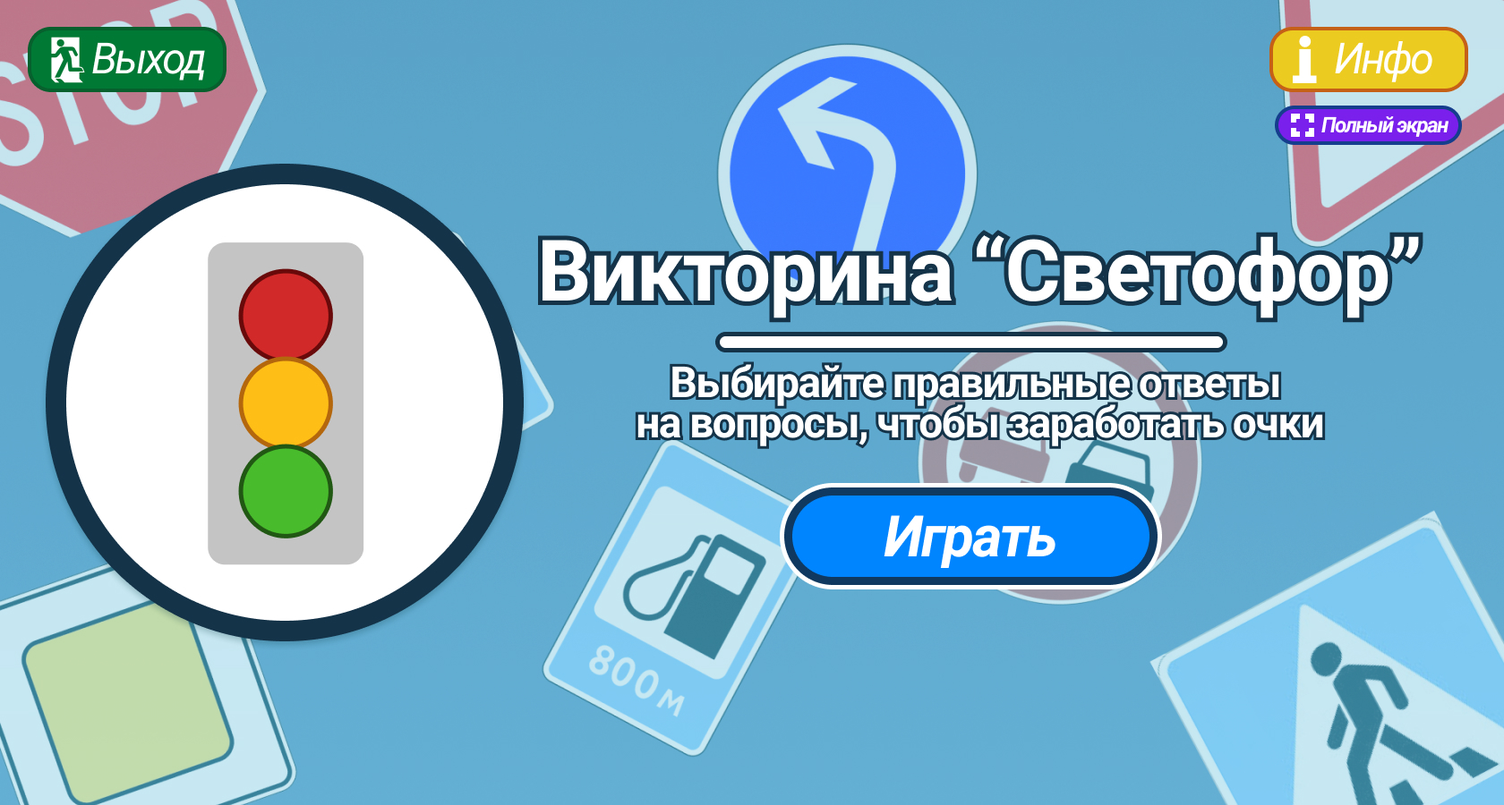
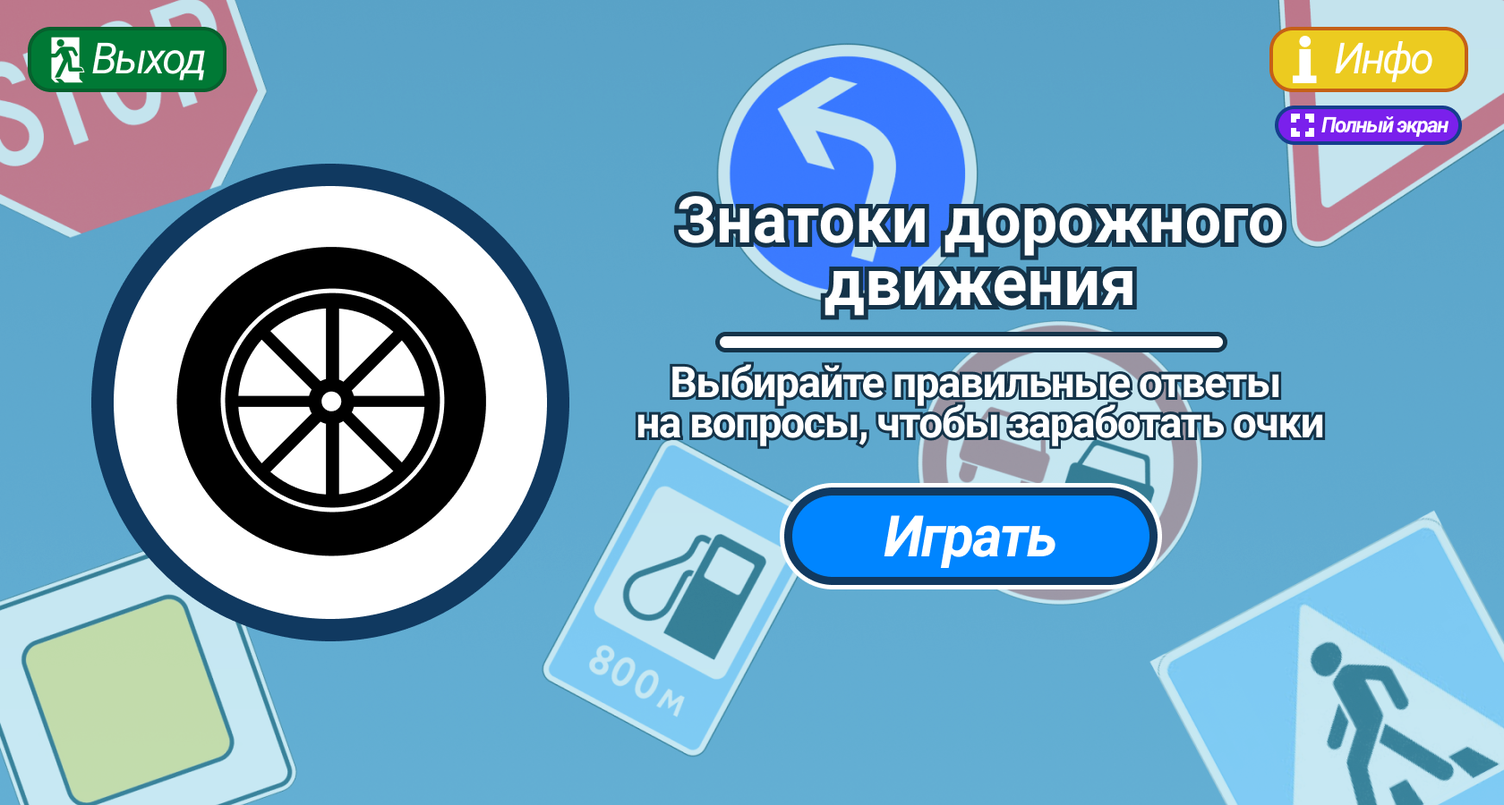
Add files via upload

Changed region(s): [[0.031, 0.1867, 0.9595, 0.8089]]

diff --git a/data.js b/data.js
@@ -1,1 +1,1 @@
-{"project": [null,"Load",[[0,true,false,false,false,false,false,false,false,false],[1,true,false,false,false,false,false,false,false,false],[2,false,true,true,true,true,true,true,true,false],[3,false,true,true,true,true,true,true,true,true],[4,false,true,true,true,true,true,true,true,true],[5,true,false,false,false,false,false,false,false,false]],[["t0",2,false,[],0,0,null,[["Default",5,false,1,0,false,699310669772612,[["images/info-sheet0.png",101,0,0,250,250,1,0.5,0.5,[],[],1]]]],[],false,false,305286260090598,[],null],["t1",2,false,[],0,0,null,[["Default",5,false,1,0,false,646212882188974,[["images/menu-sheet0.png",600767,0,0,1680,900,1,0.5,0.5,[],[],1]]]],[],false,false,330965108806769,[],null],["t2",2,false,[],0,0,null,[["Default",5,false,1,0,false,140457122207966,[["images/play-sheet0.png",101,0,0,250,250,1,0.5,0.5,[],[],1]]]],[],false,false,638169969096723,[],null],["t3",2,false,[],0,0,null,[["Default",5,false,1,0,false,619298212379543,[["images/construct-sheet0.png",101,0,0,250,250,1,0.5,0.5,[],[],1]]]],[],false,false,931930893368313,[],null],["t4",2,false,[],0,0,null,[["Default",5,false,1,0,false,198993027156785,[["images/google-sheet0.png",101,0,0,250,250,1,0.5,0.5,[],[],1]]]],[],false,false,535072432127042,[],null],["t5",2,false,[],0,0,null,[["Default",5,false,1,0,false,390175411149820,[["images/background-sheet0.png",519305,0,0,1680,900,1,0.5,0.5,[],[],1]]]],[],false,false,964194753746986,[],null],["t6",2,false,[],0,0,null,[["Default",5,false,1,0,false,228730093065026,[["images/correct-sheet0.png",101,0,0,250,250,1,0.5,0.5,[],[],1]]]],[],false,false,538712345472159,[],null],["t7",2,false,[],0,0,null,[["Default",5,false,1,0,false,579402543865793,[["images/notcorrect-sheet0.png",101,0,0,250,250,1,0.5,0.5,[],[],1]]]],[],false,false,153342698019226,[],null],["t8",2,false,[],0,0,null,[["F1",5,false,1,0,false,165952747809112,[["images/sprite-sheet0.png",1924368,1,1,1680,900,1,0.5,0.5,[],[],0],["images/sprite-sheet0.png",1924368,1,903,1680,900,1,0.5,0.5,[],[],0],["images/sprite-sheet1.png",1693275,1,1,1680,900,1,0.5,0.5,[],[],0],["images/sprite-sheet1.png",1693275,1,903,1680,900,1,0.5,0.5,[],[],0],["images/sprite-sheet2.png",1892620,1,1,1680,900,1,0.5,0.5,[],[],0],["images/sprite-sheet2.png",1892620,1,903,1680,900,1,0.5,0.5,[],[],0]]]],[],false,false,224295017631430,[],null],["t9",3,false,[],0,0,["images/score.png",4311,0],null,[],false,false,567386182883479,[],null],["t10",2,false,[],0,0,null,[["Default",5,false,1,0,false,397017826393564,[["images/sprite3-sheet0.png",663,0,0,314,79,1,0.5,0.5063291192054749,[],[-0.4617834091186523,-0.3544301390647888,0,-0.5063291192054749,0.4617829918861389,-0.3544301390647888,0.5,-0.01265811920166016,0.4617829918861389,0.3417719006538391,0,0.4936708807945252,-0.4617834091186523,0.3417719006538391,-0.5,-0.01265811920166016],0]]]],[],false,false,400104471960950,[],null],["t11",3,false,[],0,0,["images/fs.png",11983,0],null,[],false,false,184946241341119,[],null],["t12",3,false,[],0,0,["images/mark.png",14381,0],null,[],false,false,703794166255626,[],null],["t13",2,false,[],0,0,null,[["Default",5,false,1,0,false,793331774202207,[["images/sprite2-sheet0.png",501295,0,0,1680,900,1,0.5,0.5,[],[],1]]]],[],false,false,744321775634743,[],null],["t14",4,false,[],0,0,["images/tiledbackground.png",156,1],null,[],false,true,925849929840922,[],null],["t15",2,false,[],0,0,null,[["Default",5,false,1,0,false,126596305254213,[["images/sprite5-sheet0.png",103,0,0,924,76,1,0.5,0.5,[],[],1]]]],[],false,true,407035692290486,[],null],["t16",2,false,[],0,0,null,[["Default",5,false,1,0,false,115113480480042,[["images/sprite6-sheet0.png",921,0,0,952,104,1,0.5,0.5,[],[-0.4905462265014648,-0.4134615063667297,0,-0.5,0.4905459880828857,-0.4134615063667297,0.4915969967842102,0.4230769872665405,0,0.5,-0.4915966391563416,0.4230769872665405],0]]]],[],false,true,715514786655448,[],null],["t17",2,false,[],0,0,null,[["Default",5,false,1,0,false,190860979211935,[["images/sprite7-sheet0.png",3578,0,0,386,76,1,0.5,0.5,[],[-0.4844560027122498,-0.4210526049137116,0,-0.3157889842987061,0.3782380223274231,0.1184210181236267,0.3238340020179749,0,0.4533680081367493,0.2631580233573914,0,0.05263197422027588,-0.4585492014884949,0.2894740104675293,-0.5,0],0]]]],[],false,true,229535676538318,[],null],["t18",2,false,[],0,0,null,[["Default",5,false,1,0,false,359682152017554,[["images/sprite4-sheet0.png",494178,0,0,1680,900,1,0.5,0.5,[],[],1]]]],[],false,true,298838922664621,[],null],["t19",1,false,[],0,0,null,null,[],false,false,343079626119108,[],null,[]],["t20",5,false,[],0,0,null,null,[],false,false,673241778870311,[],null,[1]],["t21",2,false,[],0,0,null,[["Default",5,false,1,0,false,568389917202837,[["images/fullscreen-sheet0.png",101,0,0,250,250,1,0.5,0.5,[],[],1]]]],[],false,false,706934879630501,[],null],["t22",2,false,[],0,0,null,[["Default",5,false,1,0,false,300296014964393,[["images/back-sheet0.png",101,0,0,250,250,1,0.5,0.5,[],[],1]]]],[],false,false,993429437346763,[],null],["t23",2,false,[],0,0,null,[["Default",5,false,1,0,false,674613304082112,[["images/exit-sheet0.png",101,0,0,250,250,1,0.5,0.5,[],[],1]]]],[],false,false,976598106751529,[],null],["t24",0,false,[],0,0,null,null,[],false,false,369986642436946,[],null,[0,1,0,1,1,600,600,10000,1]]],[],[["1",1680,900,false,"Game",969449684699965,[["Background",0,119902172366601,true,[255,255,255],false,1,1,1,false,false,1,0,0,[[[840,450,0,1680,900,0,0,1,0.5,0.5,0,0,[]],8,13,[],[],[0,"Default",0,1]],[[547.1649169921875,68.43854522705078,0,200,45,0,0,1,0.5,0.5,0,0,[]],9,19,[],[],[30,41,"0123456789-","0",1,0,0,1,4,0,0,0]]],[]],["Triger",1,625972008983193,false,[255,255,255],true,1,1,1,false,false,1,0,0,[[[1529,52,0,208.6414794921875,44.61064147949219,0,0,1,0.5,0.5,0,0,[]],21,14,[],[],[0,"Default",0,1]],[[159,68,0,223.4698791503906,73.88409423828125,0,0,1,0.5,0.5,0,0,[]],22,15,[],[],[0,"Default",0,1]],[[840,788,0,314,79,0,0,1,0.5,0.5,0,0,[]],7,16,[],[],[0,"Default",0,1]],[[1184,787,0,314,79,0,0,1,0.5,0.5,0,0,[]],7,17,[],[],[0,"Default",0,1]],[[493.5,787.5,0,317,81,0,0,1,0.5,0.5,0,0,[]],6,18,[],[],[0,"Default",0,1]]],[]],["Layer 0",2,207686102218121,true,[255,255,255],true,1,1,1,false,false,1,0,0,[[[1185,788,0,314,79,0,0,1,0.5,0.5063291192054749,0,0,[]],10,61,[],[],[1,"Default",0,1]],[[840,788,0,314,79,0,0,1,0.5,0.5063291192054749,0,0,[]],10,62,[],[],[1,"Default",0,1]]],[]]],[],[]],["2",1680,900,false,"Game",169798598650373,[["Background",0,438258706534383,true,[255,255,255],false,1,1,1,false,false,1,0,0,[[[840,450,0,1680,900,0,0,1,0.5,0.5,0,0,[]],8,20,[],[],[0,"Default",0,1]],[[547.1649169921875,68.43854522705078,0,200,45,0,0,1,0.5,0.5,0,0,[]],9,21,[],[],[30,41,"0123456789-","0",1,0,0,1,4,0,0,0]]],[]],["Triger",1,113630123607105,false,[255,255,255],true,1,1,1,false,false,1,0,0,[[[1529,52,0,208.6414794921875,44.61064147949219,0,0,1,0.5,0.5,0,0,[]],21,22,[],[],[0,"Default",0,1]],[[159,68,0,223.4698791503906,73.88409423828125,0,0,1,0.5,0.5,0,0,[]],22,23,[],[],[0,"Default",0,1]],[[494,788,0,314,79,0,0,1,0.5,0.5,0,0,[]],7,24,[],[],[0,"Default",0,1]],[[1184,787,0,314,79,0,0,1,0.5,0.5,0,0,[]],7,25,[],[],[0,"Default",0,1]],[[840,788,0,317,81,0,0,1,0.5,0.5,0,0,[]],6,26,[],[],[0,"Default",0,1]]],[]],["Layer 0",2,404167846845158,true,[255,255,255],true,1,1,1,false,false,1,0,0,[[[495,788,0,314,79,0,0,1,0.5,0.5063291192054749,0,0,[]],10,63,[],[],[1,"Default",0,1]],[[1184,788,0,314,79,0,0,1,0.5,0.5063291192054749,0,0,[]],10,64,[],[],[1,"Default",0,1]]],[]]],[],[]],["3",1680,900,false,"Game",175393303876511,[["Background",0,458525260172943,true,[255,255,255],false,1,1,1,false,false,1,0,0,[[[840,450,0,1680,900,0,0,1,0.5,0.5,0,0,[]],8,27,[],[],[0,"Default",0,1]],[[547.1649169921875,68.43854522705078,0,200,45,0,0,1,0.5,0.5,0,0,[]],9,28,[],[],[30,41,"0123456789-","0",1,0,0,1,4,0,0,0]]],[]],["Layer 0",1,676948649709387,true,[255,255,255],true,1,1,1,false,false,1,0,0,[[[495,788,0,314,79,0,0,1,0.5,0.5063291192054749,0,0,[]],10,65,[],[],[1,"Default",0,1]],[[1184,788,0,314,79,0,0,1,0.5,0.5063291192054749,0,0,[]],10,66,[],[],[1,"Default",0,1]]],[]],["Triger",2,783362646828434,false,[255,255,255],true,1,1,1,false,false,1,0,0,[[[1529,52,0,208.6414794921875,44.61064147949219,0,0,1,0.5,0.5,0,0,[]],21,29,[],[],[0,"Default",0,1]],[[159,68,0,223.4698791503906,73.88409423828125,0,0,1,0.5,0.5,0,0,[]],22,30,[],[],[0,"Default",0,1]],[[494,788,0,314,79,0,0,1,0.5,0.5,0,0,[]],7,31,[],[],[0,"Default",0,1]],[[1184,787,0,314,79,0,0,1,0.5,0.5,0,0,[]],7,32,[],[],[0,"Default",0,1]],[[840,788,0,317,81,0,0,1,0.5,0.5,0,0,[]],6,33,[],[],[0,"Default",0,1]]],[]]],[],[]],["4",1680,900,false,"Game",524386671110848,[["Background",0,285281335494059,true,[255,255,255],false,1,1,1,false,false,1,0,0,[[[840,450,0,1680,900,0,0,1,0.5,0.5,0,0,[]],8,34,[],[],[0,"Default",0,1]],[[547.1649169921875,68.43854522705078,0,200,45,0,0,1,0.5,0.5,0,0,[]],9,35,[],[],[30,41,"0123456789-","0",1,0,0,1,4,0,0,0]]],[]],["Triger",1,996815133112468,false,[255,255,255],true,1,1,1,false,false,1,0,0,[[[1529,52,0,208.6414794921875,44.61064147949219,0,0,1,0.5,0.5,0,0,[]],21,36,[],[],[0,"Default",0,1]],[[159,68,0,223.4698791503906,73.88409423828125,0,0,1,0.5,0.5,0,0,[]],22,37,[],[],[0,"Default",0,1]],[[494,788,0,314,79,0,0,1,0.5,0.5,0,0,[]],7,38,[],[],[0,"Default",0,1]],[[1184,787,0,314,79,0,0,1,0.5,0.5,0,0,[]],7,39,[],[],[0,"Default",0,1]],[[840,788,0,317,81,0,0,1,0.5,0.5,0,0,[]],6,40,[],[],[0,"Default",0,1]]],[]],["Layer 0",2,974713865190415,true,[255,255,255],true,1,1,1,false,false,1,0,0,[[[495,788,0,314,79,0,0,1,0.5,0.5063291192054749,0,0,[]],10,67,[],[],[1,"Default",0,1]],[[1184,788,0,314,79,0,0,1,0.5,0.5063291192054749,0,0,[]],10,68,[],[],[1,"Default",0,1]]],[]]],[],[]],["5",1680,900,false,"Game",195145176976001,[["Background",0,721459081983873,true,[255,255,255],false,1,1,1,false,false,1,0,0,[[[840,450,0,1680,900,0,0,1,0.5,0.5,0,0,[]],8,41,[],[],[0,"Default",0,1]],[[547.1649169921875,68.43854522705078,0,200,45,0,0,1,0.5,0.5,0,0,[]],9,42,[],[],[30,41,"0123456789-","0",1,0,0,1,4,0,0,0]]],[]],["Triger",1,687970094717080,false,[255,255,255],true,1,1,1,false,false,1,0,0,[[[1529,52,0,208.6414794921875,44.61064147949219,0,0,1,0.5,0.5,0,0,[]],21,43,[],[],[0,"Default",0,1]],[[159,68,0,223.4698791503906,73.88409423828125,0,0,1,0.5,0.5,0,0,[]],22,44,[],[],[0,"Default",0,1]],[[494,788,0,314,79,0,0,1,0.5,0.5,0,0,[]],7,45,[],[],[0,"Default",0,1]],[[837,787,0,314,79,0,0,1,0.5,0.5,0,0,[]],7,46,[],[],[0,"Default",0,1]],[[1186,786,0,317,81,0,0,1,0.5,0.5,0,0,[]],6,47,[],[],[0,"Default",0,1]]],[]],["Layer 0",2,798239517522788,true,[255,255,255],true,1,1,1,false,false,1,0,0,[[[495,788,0,314,79,0,0,1,0.5,0.5063291192054749,0,0,[]],10,69,[],[],[1,"Default",0,1]],[[840,788,0,314,79,0,0,1,0.5,0.5063291192054749,0,0,[]],10,70,[],[],[1,"Default",0,1]]],[]]],[],[]],["6",1680,900,false,"Game",630479711707986,[["Background",0,291057672229036,true,[255,255,255],false,1,1,1,false,false,1,0,0,[[[840,450,0,1680,900,0,0,1,0.5,0.5,0,0,[]],8,48,[],[],[0,"Default",0,1]],[[547.1649169921875,68.43854522705078,0,200,45,0,0,1,0.5,0.5,0,0,[]],9,49,[],[],[30,41,"0123456789-","0",1,0,0,1,4,0,0,0]]],[]],["Triger",1,902515435395980,false,[255,255,255],true,1,1,1,false,false,1,0,0,[[[1529,52,0,208.6414794921875,44.61064147949219,0,0,1,0.5,0.5,0,0,[]],21,50,[],[],[0,"Default",0,1]],[[159,68,0,223.4698791503906,73.88409423828125,0,0,1,0.5,0.5,0,0,[]],22,51,[],[],[0,"Default",0,1]],[[494,788,0,314,79,0,0,1,0.5,0.5,0,0,[]],7,52,[],[],[0,"Default",0,1]],[[837,787,0,314,79,0,0,1,0.5,0.5,0,0,[]],7,53,[],[],[0,"Default",0,1]],[[1186,786,0,317,81,0,0,1,0.5,0.5,0,0,[]],6,54,[],[],[0,"Default",0,1]]],[]],["Layer 0",2,317919307976035,true,[255,255,255],true,1,1,1,false,false,1,0,0,[[[495,788,0,314,79,0,0,1,0.5,0.5063291192054749,0,0,[]],10,71,[],[],[1,"Default",0,1]],[[840,788,0,314,79,0,0,1,0.5,0.5063291192054749,0,0,[]],10,72,[],[],[1,"Default",0,1]]],[]]],[],[]],["Menu",1680,900,false,"Menu",174665101727140,[["Back",0,260922931536489,true,[255,255,255],false,1,1,1,false,false,1,0,0,[[[840,450,0,1680,900,0,0,1,0.5,0.5,0,0,[]],1,0,[],[],[0,"Default",0,1]]],[]],["Triger",1,402153206572169,false,[255,255,255],true,1,1,1,false,false,1,0,0,[[[1084.602294921875,599.2596435546875,0,425.20458984375,118.519287109375,0,0,1,0.5,0.5,0,0,[]],2,1,[],[],[0,"Default",0,1]],[[141.8126831054688,66.94637298583984,0,222.391357421875,74.12675476074219,0,0,1,0.5,0.5,0,0,[]],23,2,[],[],[0,"Default",0,1]],[[1529.881713867188,66.22553253173828,0,221.274658203125,71.75807189941406,0,0,1,0.5,0.5,0,0,[]],0,3,[],[],[0,"Default",0,1]],[[1528.43701171875,140.3530578613281,0,208.6414794921875,44.61064147949219,0,0,1,0.5,0.5,0,0,[]],21,4,[],[],[0,"Default",0,1]]],[]]],[],[]],["Info",1680,900,false,"Info",641721484532585,[["Back",0,232660920562602,true,[255,255,255],false,1,1,1,false,false,1,0,0,[[[840,450,0,1680,900,0,0,1,0.5,0.5,0,0,[]],5,5,[],[],[0,"Default",0,1]]],[]],["Triger",1,955163468945564,false,[255,255,255],true,1,1,1,false,false,1,0,0,[[[142.0077667236328,66.13748168945313,0,223.4698791503906,73.88409423828125,0,0,1,0.5,0.5,0,0,[]],22,6,[],[],[0,"Default",0,1]],[[1528.554809570313,51.64423751831055,0,208.6414794921875,44.61064147949219,0,0,1,0.5,0.5,0,0,[]],21,7,[],[],[0,"Default",0,1]],[[822,571,0,662.396484375,52.480224609375,0,0,1,0.5,0.5,0,0,[]],4,8,[],[],[0,"Default",0,1]],[[1268,633,0,286.0106201171875,51.81787109375,0,0,1,0.5,0.5,0,0,[]],3,10,[],[],[0,"Default",0,1]]],[]]],[],[]],["Finish",1680,900,false,"Finish",524583152427703,[["Back",0,397527891593134,true,[255,255,255],false,1,1,1,false,false,1,0,0,[[[840,450,0,1680,900,0,0,1,0.5,0.5,0,0,[]],13,55,[],[],[0,"Default",0,1]]],[]],["Counter",1,341645847349326,true,[255,255,255],true,1,1,1,false,false,1,0,0,[[[1225,252,0,453,106,0,0,1,0.5,0.5,0,0,[]],11,59,[],[],[72,98,"0123456789-","0",1,0,0,1,4,0,0,0]],[[798,425,0,86,119,0,0,1,0,0,0,0,[]],12,60,[],[],[85,117,"0123456789","5",1,0,0,0,0,0,0,0]]],[]],["Triger",2,753418771521872,false,[255,255,255],true,1,1,1,false,false,1,0,0,[[[1531,50,0,208.6414794921875,44.61064147949219,0,0,1,0.5,0.5,0,0,[]],21,56,[],[],[0,"Default",0,1]],[[840,719,0,223.4698791503906,73.88409423828125,0,0,1,0.5,0.5,0,0,[]],22,57,[],[],[0,"Default",0,1]],[[840,617,0,222.391357421875,74.12675476074219,0,0,1,0.5,0.5,0,0,[]],23,58,[],[],[0,"Default",0,1]]],[]]],[],[]],["Load",1680,900,false,"Load",469696948484725,[["Layer 0",0,866954521272090,true,[255,255,255],false,1,1,1,false,false,1,0,0,[[[840,450,0,1680,900,0,0,1,0.5,0.5,0,0,[]],18,73,[],[],[0,"Default",0,1]]],[]],["Layer 1",1,860654165001460,true,[255,255,255],true,1,1,1,false,false,1,0,0,[[[854,460,0,924,76,0,0,1,0.5,0.5,0,0,[]],15,74,[],[],[0,"Default",0,1]]],[]],["Layer 2",2,200759064644982,true,[255,255,255],true,1,1,1,false,false,1,0,0,[[[392,422,0,924,76,0,0,1,0,0,0,0,[]],14,75,[],[],[0,0]]],[]],["Layer 3",3,594534504480529,true,[255,255,255],true,1,1,1,false,false,1,0,0,[[[854,460,0,952,100,0,0,1,0.5,0.5,0,0,[]],16,76,[],[],[0,"Default",0,1]],[[854,358,0,386,76,0,0,1,0.5,0.5,0,0,[]],17,77,[],[],[0,"Default",0,1]]],[]]],[],[]]],[["Menu",[[2,"FullScreen",false],[1,"FullScreen",0,0,false,false,777812736196628,false],[0,null,false,null,419374426220121,[[20,6,null,1,false,false,false,536616303493522,false,[[4,23]]]],[[19,7,null,714318822650053,false]]],[0,null,false,null,943708428998524,[[20,6,null,1,false,false,false,636052255687061,false,[[4,0]]]],[[-1,8,null,159976558823501,false,[[6,"Info"]]]]],[0,null,false,null,595628392271406,[[20,9,null,1,false,false,false,875960381357570,false,[[4,2]]]],[[-1,8,null,388921566675460,false,[[6,"1"]]],[-1,10,null,661028608794603,false]]]]],["Info",[[2,"FullScreen",false],[0,null,false,null,575479624215591,[[20,6,null,1,false,false,false,681814792309349,false,[[4,22]]]],[[-1,8,null,643650333627384,false,[[6,"Menu"]]]]],[0,null,false,null,462120496490972,[[20,6,null,1,false,false,false,612563696146511,false,[[4,3]]]],[[19,11,null,289419765498644,false,[[1,[2,"https://www.scirra.com/construct2"]],[1,[2,"NewWindow"]]]]]],[0,null,false,null,279211109197966,[[20,6,null,1,false,false,false,168989219962074,false,[[4,4]]]],[[19,11,null,716480108799432,false,[[1,[2,"https://www.google.ru/imghp"]],[1,[2,"NewWindow"]]]]]]]],["Game",[[2,"FullScreen",false],[1,"Frame",0,0,false,false,564739700028104,false],[1,"Points",0,0,false,false,527209911432837,false],[0,null,false,null,445982119032744,[[-1,12,null,0,false,false,false,964585929309728,false,[[11,"Frame"],[8,0],[7,[0,6]]]]],[[-1,8,null,127499905952299,false,[[6,"Finish"]]]]],[0,null,false,null,118764586406762,[[20,9,null,1,false,false,false,701327367373283,false,[[4,7]]]],[[-1,13,null,556159789342702,false,[[11,"Points"],[7,[0,50]]]],[7,14,null,906944411426912,false],[24,15,null,235700076304115,false,[[2,["aaa",false]],[3,0],[0,[0,0]],[1,[2,""]]]]]],[0,null,false,null,660332413617980,[[20,9,null,1,false,false,false,441395824196742,false,[[4,6]]]],[[-1,16,null,125399329446623,false,[[11,"Points"],[7,[0,100]]]],[-1,16,null,906694882368077,false,[[11,"Frame"],[7,[0,1]]]],[24,15,null,241802439466641,false,[[2,["correct",false]],[3,0],[0,[0,0]],[1,[2,""]]]]]],[0,null,false,null,145728665482855,[[-1,17,null,0,false,false,false,771479597514861,false]],[[9,18,null,335479877961308,false,[[7,[23,"Points"]]]],[8,19,null,707509440514053,false,[[0,[23,"Frame"]]]]]],[0,null,false,null,889078446024146,[[-1,20,null,1,false,false,false,747691951856791,false]],[[8,21,null,932497293448551,false]]],[0,null,false,null,495669571589050,[[20,6,null,1,false,false,false,996186405252312,false,[[4,22]]]],[[-1,8,null,220346671144875,false,[[6,"Menu"]]]]],[0,null,false,null,783889108333468,[[20,9,null,1,false,false,false,262582633081176,false,[[4,6]]],[-1,12,null,0,false,false,false,132980079100979,false,[[11,"Frame"],[8,2],[7,[0,6]]]]],[[-1,22,null,180841014853927,false,[[3,0]]]]],[0,null,false,null,652555367372125,[[20,9,null,1,false,false,false,955640177229179,false,[[4,10]]]],[[10,23,null,655217276566523,false,[[3,1]]]]]]],["Finish",[[1,"Mark",0,2,false,false,307428844661382,false],[2,"FullScreen",false],[0,null,false,null,508309538432676,[[-1,17,null,0,false,false,false,306734315235069,false]],[[11,18,null,916820033922878,false,[[7,[23,"Points"]]]],[12,18,null,179945955572191,false,[[7,[23,"Mark"]]]]]],[0,null,false,null,775605949331125,[[-1,12,null,0,false,false,false,911138656598493,false,[[11,"Points"],[8,3],[7,[0,150]]]]],[[-1,24,null,396748993004044,false,[[11,"Mark"],[7,[0,2]]]]]],[0,null,false,null,310834338595534,[[-1,12,null,0,false,false,false,859541664995316,false,[[11,"Points"],[8,5],[7,[0,300]]]]],[[-1,24,null,204789281437371,false,[[11,"Mark"],[7,[0,3]]]]]],[0,null,false,null,858848344730430,[[-1,12,null,0,false,false,false,681976628432067,false,[[11,"Points"],[8,5],[7,[0,450]]]]],[[-1,24,null,660709619215422,false,[[11,"Mark"],[7,[0,4]]]]]],[0,null,false,null,801498034873778,[[-1,12,null,0,false,false,false,723011633141889,false,[[11,"Points"],[8,0],[7,[0,600]]]]],[[-1,24,null,343543681068005,false,[[11,"Mark"],[7,[0,5]]]]]],[0,null,false,null,932587535652733,[[20,9,null,1,false,false,false,548209256974763,false,[[4,23]]]],[[19,7,null,329978863242015,false]]],[0,null,false,null,806667375825550,[[20,9,null,1,false,false,false,937033543943809,false,[[4,22]]]],[[-1,8,null,990499928729250,false,[[6,"Menu"]]]]]]],["FullScreen",[[0,null,false,null,195465810480720,[[20,6,null,1,false,false,false,578443234582408,false,[[4,21]]]],[[-1,16,null,250634060038719,false,[[11,"FullScreen"],[7,[0,1]]]]]],[0,null,false,null,634723501125677,[[-1,12,null,0,false,false,false,291728906732970,false,[[11,"FullScreen"],[8,0],[7,[0,1]]]]],[[-1,25,null,579887375797517,false,[[3,1]]],[19,26,null,639599984211986,false,[[3,0]]]]],[0,null,false,null,981807135319369,[[-1,12,null,0,false,false,false,330226199583225,false,[[11,"FullScreen"],[8,4],[7,[0,1]]]]],[[-1,24,null,618740667163831,false,[[11,"FullScreen"],[7,[0,0]]]]]],[0,null,false,null,961337551284061,[[-1,12,null,0,false,false,false,670595190812595,false,[[11,"FullScreen"],[8,0],[7,[0,0]]]]],[[-1,25,null,964706500774023,false,[[3,0]]],[19,27,null,718466152864128,false]]]]],["Load",[[0,null,false,null,997044446714092,[[-1,17,null,0,false,false,false,682202449928177,false]],[[14,28,null,647414729135856,false,[[0,[19,29,[[6,[19,30],[0,924]]]]]]]]],[0,null,false,null,448294184020034,[[-1,31,null,1,false,false,false,961461755006390,false]],[[-1,8,null,983415201061352,false,[[6,"Menu"]]]]]]]],[["correct.ogg",35250],["aaa.ogg",17512]],"media/",false,1680,900,4,true,true,true,"1.0.0.0",true,true,1,2,78,false,true,1,true,"Викторина Светофор",0,[]]}
+{"project": [null,"Load",[[0,true,false,false,false,false,false,false,false,false],[1,true,false,false,false,false,false,false,false,false],[2,false,true,true,true,true,true,true,true,false],[3,false,true,true,true,true,true,true,true,true],[4,false,true,true,true,true,true,true,true,true],[5,true,false,false,false,false,false,false,false,false]],[["t0",2,false,[],0,0,null,[["Default",5,false,1,0,false,699310669772612,[["images/info-sheet0.png",101,0,0,250,250,1,0.5,0.5,[],[],1]]]],[],false,false,305286260090598,[],null],["t1",2,false,[],0,0,null,[["Default",5,false,1,0,false,646212882188974,[["images/menu-sheet0.png",471899,0,0,1680,900,1,0.5,0.5,[],[],1]]]],[],false,false,330965108806769,[],null],["t2",2,false,[],0,0,null,[["Default",5,false,1,0,false,140457122207966,[["images/play-sheet0.png",101,0,0,250,250,1,0.5,0.5,[],[],1]]]],[],false,false,638169969096723,[],null],["t3",2,false,[],0,0,null,[["Default",5,false,1,0,false,619298212379543,[["images/construct-sheet0.png",101,0,0,250,250,1,0.5,0.5,[],[],1]]]],[],false,false,931930893368313,[],null],["t4",2,false,[],0,0,null,[["Default",5,false,1,0,false,198993027156785,[["images/google-sheet0.png",101,0,0,250,250,1,0.5,0.5,[],[],1]]]],[],false,false,535072432127042,[],null],["t5",2,false,[],0,0,null,[["Default",5,false,1,0,false,390175411149820,[["images/background-sheet0.png",519305,0,0,1680,900,1,0.5,0.5,[],[],1]]]],[],false,false,964194753746986,[],null],["t6",2,false,[],0,0,null,[["Default",5,false,1,0,false,228730093065026,[["images/correct-sheet0.png",101,0,0,250,250,1,0.5,0.5,[],[],1]]]],[],false,false,538712345472159,[],null],["t7",2,false,[],0,0,null,[["Default",5,false,1,0,false,579402543865793,[["images/notcorrect-sheet0.png",101,0,0,250,250,1,0.5,0.5,[],[],1]]]],[],false,false,153342698019226,[],null],["t8",2,false,[],0,0,null,[["F1",5,false,1,0,false,165952747809112,[["images/sprite-sheet0.png",1924368,1,1,1680,900,1,0.5,0.5,[],[],0],["images/sprite-sheet0.png",1924368,1,903,1680,900,1,0.5,0.5,[],[],0],["images/sprite-sheet1.png",1693275,1,1,1680,900,1,0.5,0.5,[],[],0],["images/sprite-sheet1.png",1693275,1,903,1680,900,1,0.5,0.5,[],[],0],["images/sprite-sheet2.png",1892620,1,1,1680,900,1,0.5,0.5,[],[],0],["images/sprite-sheet2.png",1892620,1,903,1680,900,1,0.5,0.5,[],[],0]]]],[],false,false,224295017631430,[],null],["t9",3,false,[],0,0,["images/score.png",4311,0],null,[],false,false,567386182883479,[],null],["t10",2,false,[],0,0,null,[["Default",5,false,1,0,false,397017826393564,[["images/sprite3-sheet0.png",663,0,0,314,79,1,0.5,0.5063291192054749,[],[-0.4617834091186523,-0.3544301390647888,0,-0.5063291192054749,0.4617829918861389,-0.3544301390647888,0.5,-0.01265811920166016,0.4617829918861389,0.3417719006538391,0,0.4936708807945252,-0.4617834091186523,0.3417719006538391,-0.5,-0.01265811920166016],0]]]],[],false,false,400104471960950,[],null],["t11",3,false,[],0,0,["images/fs.png",11983,0],null,[],false,false,184946241341119,[],null],["t12",3,false,[],0,0,["images/mark.png",14381,0],null,[],false,false,703794166255626,[],null],["t13",2,false,[],0,0,null,[["Default",5,false,1,0,false,793331774202207,[["images/sprite2-sheet0.png",501295,0,0,1680,900,1,0.5,0.5,[],[],1]]]],[],false,false,744321775634743,[],null],["t14",4,false,[],0,0,["images/tiledbackground.png",156,1],null,[],false,true,925849929840922,[],null],["t15",2,false,[],0,0,null,[["Default",5,false,1,0,false,126596305254213,[["images/sprite5-sheet0.png",103,0,0,924,76,1,0.5,0.5,[],[],1]]]],[],false,true,407035692290486,[],null],["t16",2,false,[],0,0,null,[["Default",5,false,1,0,false,115113480480042,[["images/sprite6-sheet0.png",921,0,0,952,104,1,0.5,0.5,[],[-0.4905462265014648,-0.4134615063667297,0,-0.5,0.4905459880828857,-0.4134615063667297,0.4915969967842102,0.4230769872665405,0,0.5,-0.4915966391563416,0.4230769872665405],0]]]],[],false,true,715514786655448,[],null],["t17",2,false,[],0,0,null,[["Default",5,false,1,0,false,190860979211935,[["images/sprite7-sheet0.png",3578,0,0,386,76,1,0.5,0.5,[],[-0.4844560027122498,-0.4210526049137116,0,-0.3157889842987061,0.3782380223274231,0.1184210181236267,0.3238340020179749,0,0.4533680081367493,0.2631580233573914,0,0.05263197422027588,-0.4585492014884949,0.2894740104675293,-0.5,0],0]]]],[],false,true,229535676538318,[],null],["t18",2,false,[],0,0,null,[["Default",5,false,1,0,false,359682152017554,[["images/sprite4-sheet0.png",494178,0,0,1680,900,1,0.5,0.5,[],[],1]]]],[],false,true,298838922664621,[],null],["t19",1,false,[],0,0,null,null,[],false,false,343079626119108,[],null,[]],["t20",5,false,[],0,0,null,null,[],false,false,673241778870311,[],null,[1]],["t21",2,false,[],0,0,null,[["Default",5,false,1,0,false,568389917202837,[["images/fullscreen-sheet0.png",101,0,0,250,250,1,0.5,0.5,[],[],1]]]],[],false,false,706934879630501,[],null],["t22",2,false,[],0,0,null,[["Default",5,false,1,0,false,300296014964393,[["images/back-sheet0.png",101,0,0,250,250,1,0.5,0.5,[],[],1]]]],[],false,false,993429437346763,[],null],["t23",2,false,[],0,0,null,[["Default",5,false,1,0,false,674613304082112,[["images/exit-sheet0.png",101,0,0,250,250,1,0.5,0.5,[],[],1]]]],[],false,false,976598106751529,[],null],["t24",0,false,[],0,0,null,null,[],false,false,369986642436946,[],null,[0,1,0,1,1,600,600,10000,1]]],[],[["1",1680,900,false,"Game",969449684699965,[["Background",0,119902172366601,true,[255,255,255],false,1,1,1,false,false,1,0,0,[[[840,450,0,1680,900,0,0,1,0.5,0.5,0,0,[]],8,13,[],[],[0,"Default",0,1]],[[547.1649169921875,68.43854522705078,0,200,45,0,0,1,0.5,0.5,0,0,[]],9,19,[],[],[30,41,"0123456789-","0",1,0,0,1,4,0,0,0]]],[]],["Triger",1,625972008983193,false,[255,255,255],true,1,1,1,false,false,1,0,0,[[[1529,52,0,208.6414794921875,44.61064147949219,0,0,1,0.5,0.5,0,0,[]],21,14,[],[],[0,"Default",0,1]],[[159,68,0,223.4698791503906,73.88409423828125,0,0,1,0.5,0.5,0,0,[]],22,15,[],[],[0,"Default",0,1]],[[840,788,0,314,79,0,0,1,0.5,0.5,0,0,[]],7,16,[],[],[0,"Default",0,1]],[[1184,787,0,314,79,0,0,1,0.5,0.5,0,0,[]],7,17,[],[],[0,"Default",0,1]],[[493.5,787.5,0,317,81,0,0,1,0.5,0.5,0,0,[]],6,18,[],[],[0,"Default",0,1]]],[]],["Layer 0",2,207686102218121,true,[255,255,255],true,1,1,1,false,false,1,0,0,[[[1185,788,0,314,79,0,0,1,0.5,0.5063291192054749,0,0,[]],10,61,[],[],[1,"Default",0,1]],[[840,788,0,314,79,0,0,1,0.5,0.5063291192054749,0,0,[]],10,62,[],[],[1,"Default",0,1]]],[]]],[],[]],["2",1680,900,false,"Game",169798598650373,[["Background",0,438258706534383,true,[255,255,255],false,1,1,1,false,false,1,0,0,[[[840,450,0,1680,900,0,0,1,0.5,0.5,0,0,[]],8,20,[],[],[0,"Default",0,1]],[[547.1649169921875,68.43854522705078,0,200,45,0,0,1,0.5,0.5,0,0,[]],9,21,[],[],[30,41,"0123456789-","0",1,0,0,1,4,0,0,0]]],[]],["Triger",1,113630123607105,false,[255,255,255],true,1,1,1,false,false,1,0,0,[[[1529,52,0,208.6414794921875,44.61064147949219,0,0,1,0.5,0.5,0,0,[]],21,22,[],[],[0,"Default",0,1]],[[159,68,0,223.4698791503906,73.88409423828125,0,0,1,0.5,0.5,0,0,[]],22,23,[],[],[0,"Default",0,1]],[[494,788,0,314,79,0,0,1,0.5,0.5,0,0,[]],7,24,[],[],[0,"Default",0,1]],[[1184,787,0,314,79,0,0,1,0.5,0.5,0,0,[]],7,25,[],[],[0,"Default",0,1]],[[840,788,0,317,81,0,0,1,0.5,0.5,0,0,[]],6,26,[],[],[0,"Default",0,1]]],[]],["Layer 0",2,404167846845158,true,[255,255,255],true,1,1,1,false,false,1,0,0,[[[495,788,0,314,79,0,0,1,0.5,0.5063291192054749,0,0,[]],10,63,[],[],[1,"Default",0,1]],[[1184,788,0,314,79,0,0,1,0.5,0.5063291192054749,0,0,[]],10,64,[],[],[1,"Default",0,1]]],[]]],[],[]],["3",1680,900,false,"Game",175393303876511,[["Background",0,458525260172943,true,[255,255,255],false,1,1,1,false,false,1,0,0,[[[840,450,0,1680,900,0,0,1,0.5,0.5,0,0,[]],8,27,[],[],[0,"Default",0,1]],[[547.1649169921875,68.43854522705078,0,200,45,0,0,1,0.5,0.5,0,0,[]],9,28,[],[],[30,41,"0123456789-","0",1,0,0,1,4,0,0,0]]],[]],["Layer 0",1,676948649709387,true,[255,255,255],true,1,1,1,false,false,1,0,0,[[[495,788,0,314,79,0,0,1,0.5,0.5063291192054749,0,0,[]],10,65,[],[],[1,"Default",0,1]],[[1184,788,0,314,79,0,0,1,0.5,0.5063291192054749,0,0,[]],10,66,[],[],[1,"Default",0,1]]],[]],["Triger",2,783362646828434,false,[255,255,255],true,1,1,1,false,false,1,0,0,[[[1529,52,0,208.6414794921875,44.61064147949219,0,0,1,0.5,0.5,0,0,[]],21,29,[],[],[0,"Default",0,1]],[[159,68,0,223.4698791503906,73.88409423828125,0,0,1,0.5,0.5,0,0,[]],22,30,[],[],[0,"Default",0,1]],[[494,788,0,314,79,0,0,1,0.5,0.5,0,0,[]],7,31,[],[],[0,"Default",0,1]],[[1184,787,0,314,79,0,0,1,0.5,0.5,0,0,[]],7,32,[],[],[0,"Default",0,1]],[[840,788,0,317,81,0,0,1,0.5,0.5,0,0,[]],6,33,[],[],[0,"Default",0,1]]],[]]],[],[]],["4",1680,900,false,"Game",524386671110848,[["Background",0,285281335494059,true,[255,255,255],false,1,1,1,false,false,1,0,0,[[[840,450,0,1680,900,0,0,1,0.5,0.5,0,0,[]],8,34,[],[],[0,"Default",0,1]],[[547.1649169921875,68.43854522705078,0,200,45,0,0,1,0.5,0.5,0,0,[]],9,35,[],[],[30,41,"0123456789-","0",1,0,0,1,4,0,0,0]]],[]],["Triger",1,996815133112468,false,[255,255,255],true,1,1,1,false,false,1,0,0,[[[1529,52,0,208.6414794921875,44.61064147949219,0,0,1,0.5,0.5,0,0,[]],21,36,[],[],[0,"Default",0,1]],[[159,68,0,223.4698791503906,73.88409423828125,0,0,1,0.5,0.5,0,0,[]],22,37,[],[],[0,"Default",0,1]],[[494,788,0,314,79,0,0,1,0.5,0.5,0,0,[]],7,38,[],[],[0,"Default",0,1]],[[1184,787,0,314,79,0,0,1,0.5,0.5,0,0,[]],7,39,[],[],[0,"Default",0,1]],[[840,788,0,317,81,0,0,1,0.5,0.5,0,0,[]],6,40,[],[],[0,"Default",0,1]]],[]],["Layer 0",2,974713865190415,true,[255,255,255],true,1,1,1,false,false,1,0,0,[[[495,788,0,314,79,0,0,1,0.5,0.5063291192054749,0,0,[]],10,67,[],[],[1,"Default",0,1]],[[1184,788,0,314,79,0,0,1,0.5,0.5063291192054749,0,0,[]],10,68,[],[],[1,"Default",0,1]]],[]]],[],[]],["5",1680,900,false,"Game",195145176976001,[["Background",0,721459081983873,true,[255,255,255],false,1,1,1,false,false,1,0,0,[[[840,450,0,1680,900,0,0,1,0.5,0.5,0,0,[]],8,41,[],[],[0,"Default",0,1]],[[547.1649169921875,68.43854522705078,0,200,45,0,0,1,0.5,0.5,0,0,[]],9,42,[],[],[30,41,"0123456789-","0",1,0,0,1,4,0,0,0]]],[]],["Triger",1,687970094717080,false,[255,255,255],true,1,1,1,false,false,1,0,0,[[[1529,52,0,208.6414794921875,44.61064147949219,0,0,1,0.5,0.5,0,0,[]],21,43,[],[],[0,"Default",0,1]],[[159,68,0,223.4698791503906,73.88409423828125,0,0,1,0.5,0.5,0,0,[]],22,44,[],[],[0,"Default",0,1]],[[494,788,0,314,79,0,0,1,0.5,0.5,0,0,[]],7,45,[],[],[0,"Default",0,1]],[[837,787,0,314,79,0,0,1,0.5,0.5,0,0,[]],7,46,[],[],[0,"Default",0,1]],[[1186,786,0,317,81,0,0,1,0.5,0.5,0,0,[]],6,47,[],[],[0,"Default",0,1]]],[]],["Layer 0",2,798239517522788,true,[255,255,255],true,1,1,1,false,false,1,0,0,[[[495,788,0,314,79,0,0,1,0.5,0.5063291192054749,0,0,[]],10,69,[],[],[1,"Default",0,1]],[[840,788,0,314,79,0,0,1,0.5,0.5063291192054749,0,0,[]],10,70,[],[],[1,"Default",0,1]]],[]]],[],[]],["6",1680,900,false,"Game",630479711707986,[["Background",0,291057672229036,true,[255,255,255],false,1,1,1,false,false,1,0,0,[[[840,450,0,1680,900,0,0,1,0.5,0.5,0,0,[]],8,48,[],[],[0,"Default",0,1]],[[547.1649169921875,68.43854522705078,0,200,45,0,0,1,0.5,0.5,0,0,[]],9,49,[],[],[30,41,"0123456789-","0",1,0,0,1,4,0,0,0]]],[]],["Triger",1,902515435395980,false,[255,255,255],true,1,1,1,false,false,1,0,0,[[[1529,52,0,208.6414794921875,44.61064147949219,0,0,1,0.5,0.5,0,0,[]],21,50,[],[],[0,"Default",0,1]],[[159,68,0,223.4698791503906,73.88409423828125,0,0,1,0.5,0.5,0,0,[]],22,51,[],[],[0,"Default",0,1]],[[494,788,0,314,79,0,0,1,0.5,0.5,0,0,[]],7,52,[],[],[0,"Default",0,1]],[[837,787,0,314,79,0,0,1,0.5,0.5,0,0,[]],7,53,[],[],[0,"Default",0,1]],[[1186,786,0,317,81,0,0,1,0.5,0.5,0,0,[]],6,54,[],[],[0,"Default",0,1]]],[]],["Layer 0",2,317919307976035,true,[255,255,255],true,1,1,1,false,false,1,0,0,[[[495,788,0,314,79,0,0,1,0.5,0.5063291192054749,0,0,[]],10,71,[],[],[1,"Default",0,1]],[[840,788,0,314,79,0,0,1,0.5,0.5063291192054749,0,0,[]],10,72,[],[],[1,"Default",0,1]]],[]]],[],[]],["Menu",1680,900,false,"Menu",174665101727140,[["Back",0,260922931536489,true,[255,255,255],false,1,1,1,false,false,1,0,0,[[[840,450,0,1680,900,0,0,1,0.5,0.5,0,0,[]],1,0,[],[],[0,"Default",0,1]]],[]],["Triger",1,402153206572169,false,[255,255,255],true,1,1,1,false,false,1,0,0,[[[1084.602294921875,599.2596435546875,0,425.20458984375,118.519287109375,0,0,1,0.5,0.5,0,0,[]],2,1,[],[],[0,"Default",0,1]],[[141.8126831054688,66.94637298583984,0,222.391357421875,74.12675476074219,0,0,1,0.5,0.5,0,0,[]],23,2,[],[],[0,"Default",0,1]],[[1529.881713867188,66.22553253173828,0,221.274658203125,71.75807189941406,0,0,1,0.5,0.5,0,0,[]],0,3,[],[],[0,"Default",0,1]],[[1528.43701171875,140.3530578613281,0,208.6414794921875,44.61064147949219,0,0,1,0.5,0.5,0,0,[]],21,4,[],[],[0,"Default",0,1]]],[]]],[],[]],["Info",1680,900,false,"Info",641721484532585,[["Back",0,232660920562602,true,[255,255,255],false,1,1,1,false,false,1,0,0,[[[840,450,0,1680,900,0,0,1,0.5,0.5,0,0,[]],5,5,[],[],[0,"Default",0,1]]],[]],["Triger",1,955163468945564,false,[255,255,255],true,1,1,1,false,false,1,0,0,[[[142.0077667236328,66.13748168945313,0,223.4698791503906,73.88409423828125,0,0,1,0.5,0.5,0,0,[]],22,6,[],[],[0,"Default",0,1]],[[1528.554809570313,51.64423751831055,0,208.6414794921875,44.61064147949219,0,0,1,0.5,0.5,0,0,[]],21,7,[],[],[0,"Default",0,1]],[[822,571,0,662.396484375,52.480224609375,0,0,1,0.5,0.5,0,0,[]],4,8,[],[],[0,"Default",0,1]],[[1268,633,0,286.0106201171875,51.81787109375,0,0,1,0.5,0.5,0,0,[]],3,10,[],[],[0,"Default",0,1]]],[]]],[],[]],["Finish",1680,900,false,"Finish",524583152427703,[["Back",0,397527891593134,true,[255,255,255],false,1,1,1,false,false,1,0,0,[[[840,450,0,1680,900,0,0,1,0.5,0.5,0,0,[]],13,55,[],[],[0,"Default",0,1]]],[]],["Counter",1,341645847349326,true,[255,255,255],true,1,1,1,false,false,1,0,0,[[[1225,252,0,453,106,0,0,1,0.5,0.5,0,0,[]],11,59,[],[],[72,98,"0123456789-","0",1,0,0,1,4,0,0,0]],[[798,425,0,86,119,0,0,1,0,0,0,0,[]],12,60,[],[],[85,117,"0123456789","5",1,0,0,0,0,0,0,0]]],[]],["Triger",2,753418771521872,false,[255,255,255],true,1,1,1,false,false,1,0,0,[[[1531,50,0,208.6414794921875,44.61064147949219,0,0,1,0.5,0.5,0,0,[]],21,56,[],[],[0,"Default",0,1]],[[840,719,0,223.4698791503906,73.88409423828125,0,0,1,0.5,0.5,0,0,[]],22,57,[],[],[0,"Default",0,1]],[[840,617,0,222.391357421875,74.12675476074219,0,0,1,0.5,0.5,0,0,[]],23,58,[],[],[0,"Default",0,1]]],[]]],[],[]],["Load",1680,900,false,"Load",469696948484725,[["Layer 0",0,866954521272090,true,[255,255,255],false,1,1,1,false,false,1,0,0,[[[840,450,0,1680,900,0,0,1,0.5,0.5,0,0,[]],18,73,[],[],[0,"Default",0,1]]],[]],["Layer 1",1,860654165001460,true,[255,255,255],true,1,1,1,false,false,1,0,0,[[[854,460,0,924,76,0,0,1,0.5,0.5,0,0,[]],15,74,[],[],[0,"Default",0,1]]],[]],["Layer 2",2,200759064644982,true,[255,255,255],true,1,1,1,false,false,1,0,0,[[[392,422,0,924,76,0,0,1,0,0,0,0,[]],14,75,[],[],[0,0]]],[]],["Layer 3",3,594534504480529,true,[255,255,255],true,1,1,1,false,false,1,0,0,[[[854,460,0,952,100,0,0,1,0.5,0.5,0,0,[]],16,76,[],[],[0,"Default",0,1]],[[854,358,0,386,76,0,0,1,0.5,0.5,0,0,[]],17,77,[],[],[0,"Default",0,1]]],[]]],[],[]]],[["Menu",[[2,"FullScreen",false],[1,"FullScreen",0,0,false,false,777812736196628,false],[0,null,false,null,419374426220121,[[20,6,null,1,false,false,false,536616303493522,false,[[4,23]]]],[[19,7,null,714318822650053,false]]],[0,null,false,null,943708428998524,[[20,6,null,1,false,false,false,636052255687061,false,[[4,0]]]],[[-1,8,null,159976558823501,false,[[6,"Info"]]]]],[0,null,false,null,595628392271406,[[20,9,null,1,false,false,false,875960381357570,false,[[4,2]]]],[[-1,8,null,388921566675460,false,[[6,"1"]]],[-1,10,null,661028608794603,false]]]]],["Info",[[2,"FullScreen",false],[0,null,false,null,575479624215591,[[20,6,null,1,false,false,false,681814792309349,false,[[4,22]]]],[[-1,8,null,643650333627384,false,[[6,"Menu"]]]]],[0,null,false,null,462120496490972,[[20,6,null,1,false,false,false,612563696146511,false,[[4,3]]]],[[19,11,null,289419765498644,false,[[1,[2,"https://www.scirra.com/construct2"]],[1,[2,"NewWindow"]]]]]],[0,null,false,null,279211109197966,[[20,6,null,1,false,false,false,168989219962074,false,[[4,4]]]],[[19,11,null,716480108799432,false,[[1,[2,"https://www.google.ru/imghp"]],[1,[2,"NewWindow"]]]]]]]],["Game",[[2,"FullScreen",false],[1,"Frame",0,0,false,false,564739700028104,false],[1,"Points",0,0,false,false,527209911432837,false],[0,null,false,null,445982119032744,[[-1,12,null,0,false,false,false,964585929309728,false,[[11,"Frame"],[8,0],[7,[0,6]]]]],[[-1,8,null,127499905952299,false,[[6,"Finish"]]]]],[0,null,false,null,118764586406762,[[20,9,null,1,false,false,false,701327367373283,false,[[4,7]]]],[[-1,13,null,556159789342702,false,[[11,"Points"],[7,[0,50]]]],[7,14,null,906944411426912,false],[24,15,null,235700076304115,false,[[2,["aaa",false]],[3,0],[0,[0,0]],[1,[2,""]]]]]],[0,null,false,null,660332413617980,[[20,9,null,1,false,false,false,441395824196742,false,[[4,6]]]],[[-1,16,null,125399329446623,false,[[11,"Points"],[7,[0,100]]]],[-1,16,null,906694882368077,false,[[11,"Frame"],[7,[0,1]]]],[24,15,null,241802439466641,false,[[2,["correct",false]],[3,0],[0,[0,0]],[1,[2,""]]]]]],[0,null,false,null,145728665482855,[[-1,17,null,0,false,false,false,771479597514861,false]],[[9,18,null,335479877961308,false,[[7,[23,"Points"]]]],[8,19,null,707509440514053,false,[[0,[23,"Frame"]]]]]],[0,null,false,null,889078446024146,[[-1,20,null,1,false,false,false,747691951856791,false]],[[8,21,null,932497293448551,false]]],[0,null,false,null,495669571589050,[[20,6,null,1,false,false,false,996186405252312,false,[[4,22]]]],[[-1,8,null,220346671144875,false,[[6,"Menu"]]]]],[0,null,false,null,783889108333468,[[20,9,null,1,false,false,false,262582633081176,false,[[4,6]]],[-1,12,null,0,false,false,false,132980079100979,false,[[11,"Frame"],[8,2],[7,[0,6]]]]],[[-1,22,null,180841014853927,false,[[3,0]]]]],[0,null,false,null,652555367372125,[[20,9,null,1,false,false,false,955640177229179,false,[[4,10]]]],[[10,23,null,655217276566523,false,[[3,1]]]]]]],["Finish",[[1,"Mark",0,2,false,false,307428844661382,false],[2,"FullScreen",false],[0,null,false,null,508309538432676,[[-1,17,null,0,false,false,false,306734315235069,false]],[[11,18,null,916820033922878,false,[[7,[23,"Points"]]]],[12,18,null,179945955572191,false,[[7,[23,"Mark"]]]]]],[0,null,false,null,775605949331125,[[-1,12,null,0,false,false,false,911138656598493,false,[[11,"Points"],[8,3],[7,[0,150]]]]],[[-1,24,null,396748993004044,false,[[11,"Mark"],[7,[0,2]]]]]],[0,null,false,null,310834338595534,[[-1,12,null,0,false,false,false,859541664995316,false,[[11,"Points"],[8,5],[7,[0,300]]]]],[[-1,24,null,204789281437371,false,[[11,"Mark"],[7,[0,3]]]]]],[0,null,false,null,858848344730430,[[-1,12,null,0,false,false,false,681976628432067,false,[[11,"Points"],[8,5],[7,[0,450]]]]],[[-1,24,null,660709619215422,false,[[11,"Mark"],[7,[0,4]]]]]],[0,null,false,null,801498034873778,[[-1,12,null,0,false,false,false,723011633141889,false,[[11,"Points"],[8,0],[7,[0,600]]]]],[[-1,24,null,343543681068005,false,[[11,"Mark"],[7,[0,5]]]]]],[0,null,false,null,932587535652733,[[20,9,null,1,false,false,false,548209256974763,false,[[4,23]]]],[[19,7,null,329978863242015,false]]],[0,null,false,null,806667375825550,[[20,9,null,1,false,false,false,937033543943809,false,[[4,22]]]],[[-1,8,null,990499928729250,false,[[6,"Menu"]]]]]]],["FullScreen",[[0,null,false,null,195465810480720,[[20,6,null,1,false,false,false,578443234582408,false,[[4,21]]]],[[-1,16,null,250634060038719,false,[[11,"FullScreen"],[7,[0,1]]]]]],[0,null,false,null,634723501125677,[[-1,12,null,0,false,false,false,291728906732970,false,[[11,"FullScreen"],[8,0],[7,[0,1]]]]],[[-1,25,null,579887375797517,false,[[3,1]]],[19,26,null,639599984211986,false,[[3,0]]]]],[0,null,false,null,981807135319369,[[-1,12,null,0,false,false,false,330226199583225,false,[[11,"FullScreen"],[8,4],[7,[0,1]]]]],[[-1,24,null,618740667163831,false,[[11,"FullScreen"],[7,[0,0]]]]]],[0,null,false,null,961337551284061,[[-1,12,null,0,false,false,false,670595190812595,false,[[11,"FullScreen"],[8,0],[7,[0,0]]]]],[[-1,25,null,964706500774023,false,[[3,0]]],[19,27,null,718466152864128,false]]]]],["Load",[[0,null,false,null,997044446714092,[[-1,17,null,0,false,false,false,682202449928177,false]],[[14,28,null,647414729135856,false,[[0,[19,29,[[6,[19,30],[0,924]]]]]]]]],[0,null,false,null,448294184020034,[[-1,31,null,1,false,false,false,961461755006390,false]],[[-1,8,null,983415201061352,false,[[6,"Menu"]]]]]]]],[["correct.ogg",35250],["aaa.ogg",17512]],"media/",false,1680,900,4,true,true,true,"1.0.0.0",true,true,1,2,78,false,true,1,true,"Знатоки дорожного движения",0,[]]}

diff --git a/index.html b/index.html
@@ -3,7 +3,7 @@
 <head>
     <meta charset="UTF-8" />
 	<meta http-equiv="X-UA-Compatible" content="IE=edge,chrome=1" />
-	<title>Викторина Светофор</title>
+	<title>Знатоки дорожного движения</title>
 	
 	<!-- Standardised web app manifest -->
 	<link rel="manifest" href="appmanifest.json" />

diff --git a/offline.js b/offline.js
@@ -1,5 +1,5 @@
 {
-	"version": 1566760657,
+	"version": 1566761860,
 	"fileList": [
 		"data.js",
 		"c2runtime.js",
